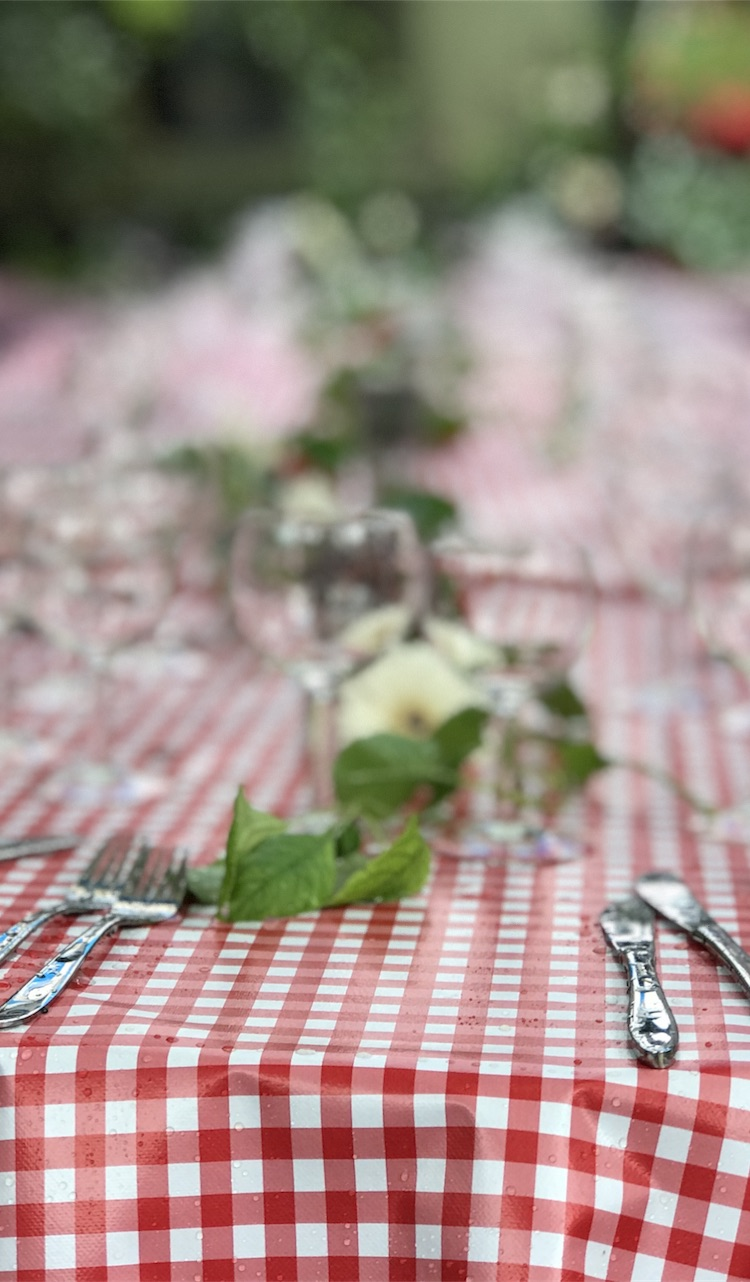
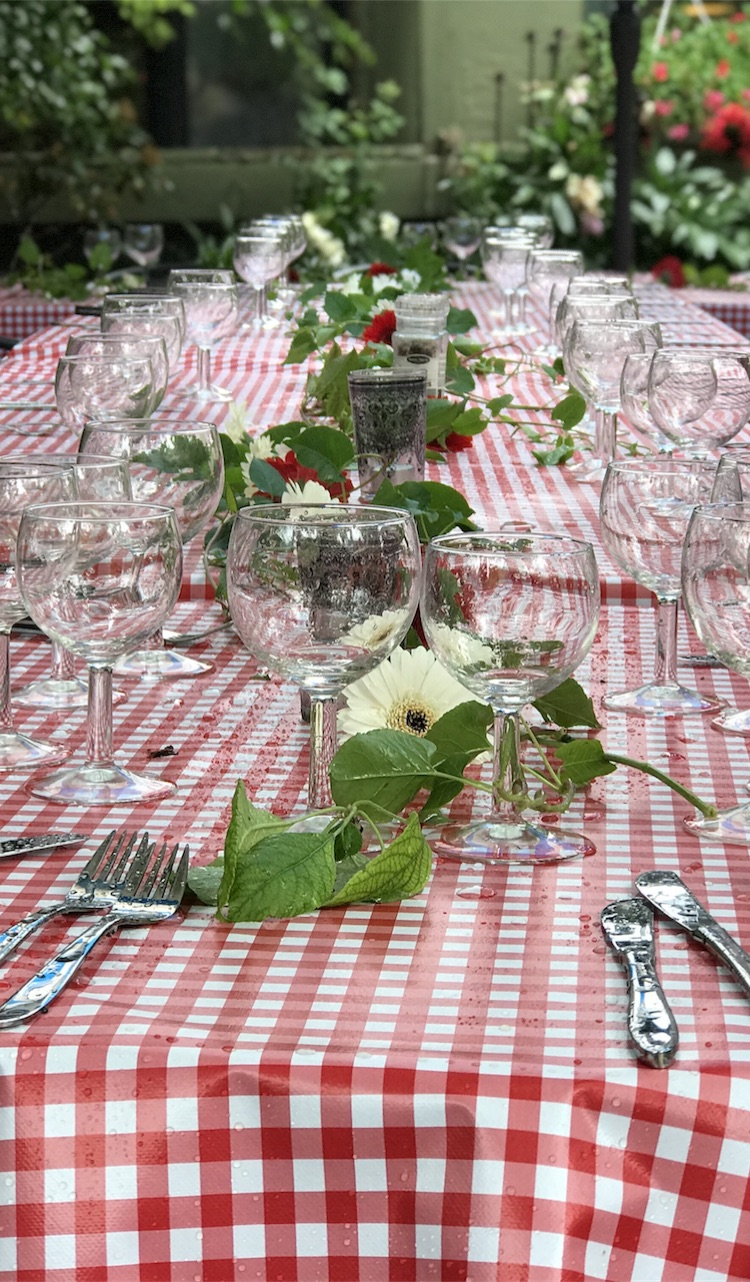
Flip images

diff --git a/assets/js/slor.js b/assets/js/slor.js
@@ -6,7 +6,7 @@ var app = new Vue({
         blur: {
             min: 1,
             max: 5,
-            amount: 3
+            amount: 1
         },
         focus: {
             min: 1,

diff --git a/site/snippets/slor-ui-animation.php b/site/snippets/slor-ui-animation.php
@@ -13,9 +13,9 @@
         <div class="demo-img-wrap">
           <div 
             class="demo-focus demo-focus--top"
-            v-on:click="setFocus(1)">
+            v-on:click="setFocus(3)">
             <div 
-              v-if="focus.position == 1"
+              v-if="focus.position == 3"
               class="demo-focus-square"></div>
           </div>
           <div 
@@ -25,8 +25,8 @@
           </div>
           <div
             class="demo-focus demo-focus--bottom"
-            v-on:click="setFocus(3)">
-            <div class="demo-focus-square" v-if="focus.position == 3"></div>
+            v-on:click="setFocus(1)">
+            <div class="demo-focus-square" v-if="focus.position == 1"></div>
           </div>
           <img v-bind:src="'assets/images/slor/' + focus.position + '.' + blur.amount + '.jpg'" />
         </div>
